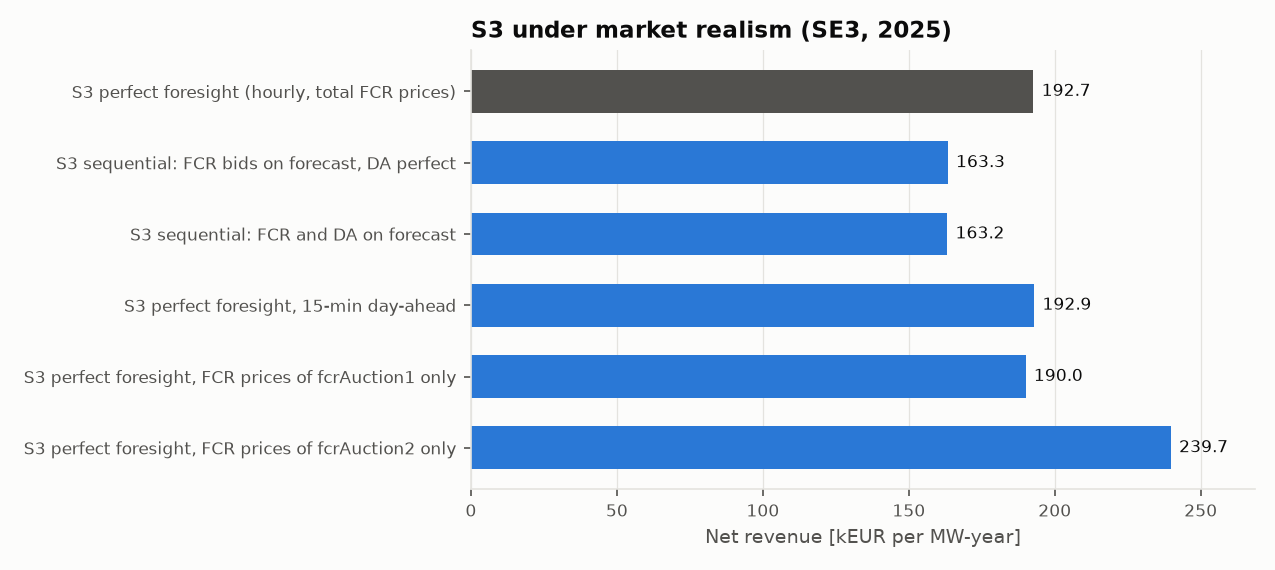
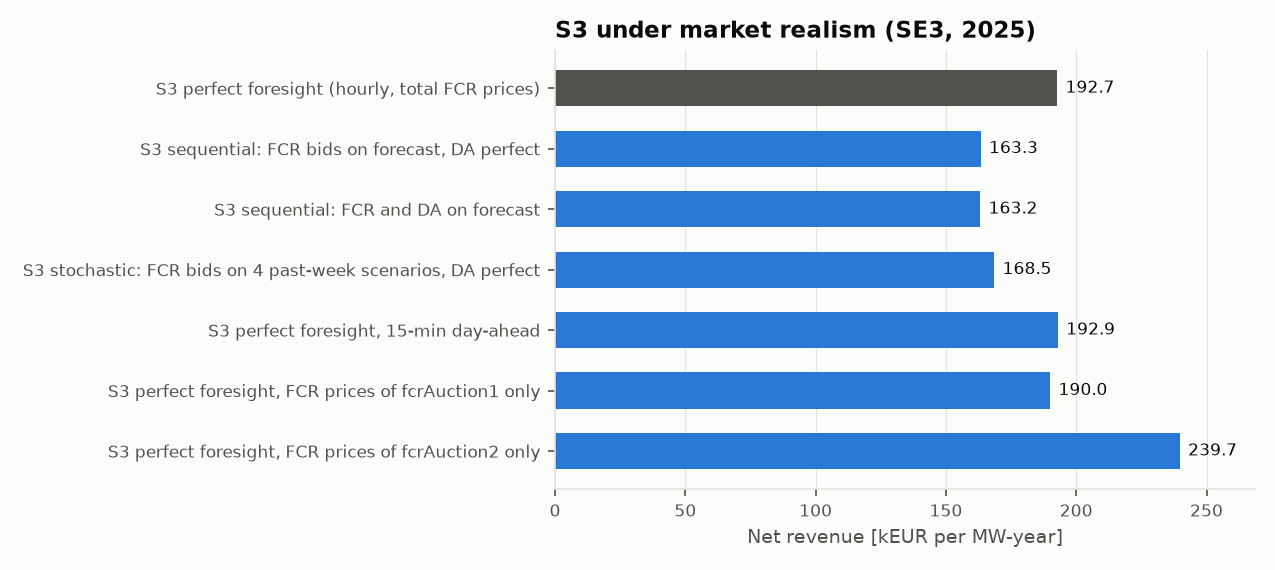
Add stochastic bidding on past weeks

diff --git a/src/nordic_bess/market/stochastic.py b/src/nordic_bess/market/stochastic.py
@@ -1,0 +1,194 @@
+"""Scenario-based two-stage stochastic bidding (PLAN M2b, optional item).
+
+First stage: hourly FCR capacities ``c_N``, ``c_Dup``, ``c_Ddown``, common to all
+scenarios (they are committed in the FCR auctions before prices are known). Second
+stage: a day-ahead schedule per scenario. The objective is the expected revenue over
+equally likely scenarios; each scenario satisfies constraints 1-7 of the daily MILP
+(``nordic_bess.market.milp``). Scenarios are the prices of the same hours in the previous
+``n_weeks`` weeks.
+
+The capacities are then evaluated like the ``fcr_forecast`` sequential variant: fixed,
+with the day-ahead schedule re-optimised on actual prices and settled at actual prices.
+"""
+
+from __future__ import annotations
+
+import time
+
+import numpy as np
+import pandas as pd
+import pyomo.environ as pyo
+from pyomo.contrib.appsi.base import TerminationCondition
+from pyomo.contrib.appsi.solvers import Highs
+
+from nordic_bess.config import SolverConfig
+from nordic_bess.market.inputs import MarketPrices
+from nordic_bess.market.milp import (
+    HOURS_PER_DAY,
+    DailyMilp,
+    DayPrices,
+    MilpParams,
+    constraint_violations,
+)
+from nordic_bess.market.strategies import STRATEGIES, BacktestResult
+
+
+class StochasticDailyMilp:
+    """Two-stage stochastic version of the S3 daily MILP with ``n_scenarios`` scenarios."""
+
+    def __init__(self, params: MilpParams, solver: SolverConfig, n_scenarios: int) -> None:
+        self.params = params
+        self.n_scenarios = int(n_scenarios)
+        self.model = self._build()
+        self.solver = Highs()
+        self.solver.config.mip_gap = solver.mip_rel_gap
+        self.solver.config.time_limit = solver.time_limit_s
+
+    def _build(self) -> pyo.ConcreteModel:
+        p = self.params
+        m = pyo.ConcreteModel(name="stochastic_daily_milp")
+        m.S = pyo.RangeSet(0, self.n_scenarios - 1)
+        m.T = pyo.RangeSet(0, HOURS_PER_DAY - 1)
+        m.K = pyo.RangeSet(0, HOURS_PER_DAY)
+        m.lam = pyo.Param(m.S, m.T, mutable=True, initialize=0.0)
+        m.pi_n = pyo.Param(m.S, m.T, mutable=True, initialize=0.0)
+        m.pi_dup = pyo.Param(m.S, m.T, mutable=True, initialize=0.0)
+        m.pi_ddown = pyo.Param(m.S, m.T, mutable=True, initialize=0.0)
+        cap = (0.0, p.max_per_product_mw)
+        m.c_n = pyo.Var(m.T, bounds=cap)  # first stage
+        m.c_dup = pyo.Var(m.T, bounds=cap)
+        m.c_ddown = pyo.Var(m.T, bounds=cap)
+        m.p_c = pyo.Var(m.S, m.T, bounds=(0.0, p.p_max_mw))  # second stage
+        m.p_d = pyo.Var(m.S, m.T, bounds=(0.0, p.p_max_mw))
+        m.u = pyo.Var(m.S, m.T, domain=pyo.Binary)
+        m.e = pyo.Var(m.S, m.K, bounds=(p.e_min_mwh, p.e_max_mwh))
+
+        m.c1d = pyo.Constraint(m.S, m.T, rule=lambda m, s, t: m.p_d[s, t] <= p.p_max_mw * m.u[s, t])
+        m.c1c = pyo.Constraint(
+            m.S, m.T, rule=lambda m, s, t: m.p_c[s, t] <= p.p_max_mw * (1 - m.u[s, t])
+        )
+        m.c2 = pyo.Constraint(
+            m.S,
+            m.T,
+            rule=lambda m, s, t: (
+                m.e[s, t + 1] == m.e[s, t] + p.eta_c * m.p_c[s, t] - m.p_d[s, t] / p.eta_d
+            ),
+        )
+        m.c3 = pyo.Constraint(
+            m.S,
+            m.T,
+            rule=lambda m, s, t: (
+                (m.p_d[s, t] - m.p_c[s, t])
+                + p.power_factor_n * m.c_n[t]
+                + m.c_dup[t]
+                + p.power_factor_d_opposite * m.c_ddown[t]
+                <= p.p_max_mw
+            ),
+        )
+        m.c4 = pyo.Constraint(
+            m.S,
+            m.T,
+            rule=lambda m, s, t: (
+                (m.p_d[s, t] - m.p_c[s, t])
+                - p.power_factor_n * m.c_n[t]
+                - p.power_factor_d_opposite * m.c_dup[t]
+                - m.c_ddown[t]
+                >= -p.p_max_mw
+            ),
+        )
+        ends = pyo.Set(initialize=[0, 1])
+        m.c5 = pyo.Constraint(
+            m.S,
+            m.T,
+            ends,
+            rule=lambda m, s, t, j: (
+                p.eta_d * (m.e[s, t + j] - p.e_min_mwh)
+                >= p.energy_hours_n * m.c_n[t] + p.energy_hours_d * m.c_dup[t]
+            ),
+        )
+        m.c6 = pyo.Constraint(
+            m.S,
+            m.T,
+            ends,
+            rule=lambda m, s, t, j: (
+                (p.e_max_mwh - m.e[s, t + j]) / p.eta_c
+                >= p.energy_hours_n * m.c_n[t] + p.energy_hours_d * m.c_ddown[t]
+            ),
+        )
+        m.c7a = pyo.Constraint(m.S, rule=lambda m, s: m.e[s, 0] == p.e0_mwh)
+        m.c7b = pyo.Constraint(m.S, rule=lambda m, s: m.e[s, HOURS_PER_DAY] == p.e0_mwh)
+        weight = 1.0 / self.n_scenarios
+        m.obj = pyo.Objective(
+            expr=weight
+            * sum(
+                m.lam[s, t] * (m.p_d[s, t] - m.p_c[s, t])
+                - p.c_deg_eur_per_mwh * m.p_d[s, t]
+                + m.pi_n[s, t] * m.c_n[t]
+                + m.pi_dup[s, t] * m.c_dup[t]
+                + m.pi_ddown[s, t] * m.c_ddown[t]
+                for s in m.S
+                for t in m.T
+            ),
+            sense=pyo.maximize,
+        )
+        return m
+
+    def solve(self, scenarios: list[DayPrices]) -> tuple[np.ndarray, float, float]:
+        """Optimal first-stage capacities ``(24, 3)`` [MW], expected revenue and solve time."""
+        if len(scenarios) != self.n_scenarios:
+            raise ValueError(f"expected {self.n_scenarios} scenarios")
+        m = self.model
+        for s, sc in enumerate(scenarios):
+            for t in m.T:
+                m.lam[s, t].set_value(float(sc.da_eur_per_mwh[t]))
+                m.pi_n[s, t].set_value(float(sc.fcr_n_eur_per_mw_h[t]))
+                m.pi_dup[s, t].set_value(float(sc.fcr_dup_eur_per_mw_h[t]))
+                m.pi_ddown[s, t].set_value(float(sc.fcr_ddown_eur_per_mw_h[t]))
+        t0 = time.perf_counter()
+        res = self.solver.solve(m)
+        elapsed = time.perf_counter() - t0
+        if res.termination_condition != TerminationCondition.optimal:
+            raise RuntimeError(f"stochastic MILP: solver returned {res.termination_condition}")
+        caps = np.array([[pyo.value(v[t]) for v in (m.c_n, m.c_dup, m.c_ddown)] for t in m.T]).clip(
+            min=0.0
+        )
+        return caps, float(pyo.value(m.obj)), elapsed
+
+
+def run_stochastic(
+    actual: MarketPrices,
+    history: MarketPrices,
+    params: MilpParams,
+    solver: SolverConfig,
+    n_weeks: int,
+    tol: float = 1e-6,
+) -> BacktestResult:
+    """Choose FCR capacities on past-week scenarios, then re-optimise the day-ahead
+    schedule on actual prices with the capacities fixed (hourly model only).
+
+    ``history`` must start at least ``n_weeks`` weeks before ``actual``.
+    """
+    if actual.periods_per_hour != 1:
+        raise ValueError("the stochastic model is hourly")
+    if history.fcr.index[0] > actual.fcr.index[0] - pd.Timedelta(weeks=n_weeks):
+        raise ValueError(f"history must cover {n_weeks} weeks before the backtest")
+    stochastic = StochasticDailyMilp(params, solver, n_weeks)
+    second = DailyMilp(params, STRATEGIES["S3"], solver)
+    frames, solve_time, worst = [], 0.0, 0.0
+    for day in actual.days:
+        scenarios = [history.day(day - pd.Timedelta(weeks=w)) for w in range(1, n_weeks + 1)]
+        caps, _, t1 = stochastic.solve(scenarios)
+        sol = second.solve(actual.day(day), fixed_capacity=caps)
+        solve_time += t1 + sol.solve_time_s
+        worst = max(worst, max(constraint_violations(sol.periods, params, sol.dt_h).values()))
+        if worst > tol:
+            raise AssertionError(f"stochastic {day:%Y-%m-%d}: constraint violated by {worst:.3g}")
+        idx = pd.date_range(day, periods=len(sol.periods), freq="1h", name="time_utc")
+        frames.append(sol.periods.set_index(idx))
+    return BacktestResult(
+        strategy=STRATEGIES["S3"],
+        schedule=pd.concat(frames),
+        dt_h=1.0,
+        solve_time_s=solve_time,
+        max_violation=worst,
+    )

diff --git a/tests/test_market_sequential.py b/tests/test_market_sequential.py
@@ -71,3 +71,29 @@ def test_forecast_errors_cost_money_and_fcr_forecast_dominates(config):
     assert a.max_violation <= 1e-6 and b.max_violation <= 1e-6
     # Settled at actual prices: the schedule carries the actual day-ahead prices.
     np.testing.assert_allclose(b.schedule["price_da_eur_per_mwh"], actual.da.to_numpy())
+
+
+def test_single_actual_scenario_matches_deterministic_s3(config):
+    from nordic_bess.market.milp import DailyMilp
+    from nordic_bess.market.stochastic import StochasticDailyMilp
+
+    params = MilpParams.from_config(config)
+    actual, _, _ = _prices(1, weekly_periodic=False, seed=9)
+    day = actual.day(START)
+    det = DailyMilp(params, STRATEGIES["S3"], config.market.solver).solve(day)
+    caps, objective, _ = StochasticDailyMilp(params, config.market.solver, 1).solve([day])
+    assert objective == pytest.approx(det.objective_eur, rel=1e-6)
+    fixed = DailyMilp(params, STRATEGIES["S3"], config.market.solver).solve(day, caps)
+    assert fixed.objective_eur == pytest.approx(det.objective_eur, rel=1e-6)
+
+
+def test_stochastic_with_weekly_pattern_equals_perfect_foresight(config):
+    from nordic_bess.market.stochastic import run_stochastic
+
+    params = MilpParams.from_config(config)
+    actual, extended, _ = _prices(2, weekly_periodic=True)
+    pf = summarise(run_backtest(actual, params, STRATEGIES["S3"], config.market.solver), params)
+    sto = run_stochastic(actual, extended, params, config.market.solver, n_weeks=1)
+    assert summarise(sto, params)["net_eur"] == pytest.approx(pf["net_eur"], rel=1e-6)
+    with pytest.raises(ValueError):
+        run_stochastic(actual, extended, params, config.market.solver, n_weeks=2)

diff --git a/scripts/run_m2b.py b/scripts/run_m2b.py
@@ -22,6 +22,7 @@ from nordic_bess.market import kpis
 from nordic_bess.market.inputs import load_backtest_prices
 from nordic_bess.market.milp import MilpParams
 from nordic_bess.market.sequential import FORECAST_LAG, naive_forecast, run_sequential
+from nordic_bess.market.stochastic import run_stochastic
 from nordic_bess.market.strategies import STRATEGIES, run_backtest
 from nordic_bess.reporting.style import BLUE, DPI, INK, INK_SECONDARY, new_figure
 
@@ -97,6 +98,13 @@ def main() -> None:
         run_sequential(hourly, forecast, params, solver, "all_forecast"),
     )
 
+    n = cfg.market.scenario_weeks
+    history = load_backtest_prices(cfg, start=s - pd.Timedelta(weeks=n))
+    add(
+        f"S3 stochastic: FCR bids on {n} past-week scenarios, DA perfect",
+        run_stochastic(hourly, history, params, solver, n),
+    )
+
     quarter = load_backtest_prices(cfg, periods_per_hour=4)
     add("S3 perfect foresight, 15-min day-ahead", run_backtest(quarter, params, s3, solver))
     for series in ("fcrAuction1", "fcrAuction2"):
@@ -110,7 +118,7 @@ def main() -> None:
     summary = pd.DataFrame(rows)
     ref = summary.loc[summary["case"] == REFERENCE, "eur_per_mw_year"].iloc[0]
     summary["delta_vs_reference_eur_per_mw_year"] = summary["eur_per_mw_year"] - ref
-    is_forecast = summary["case"].str.contains("forecast")
+    is_forecast = summary["case"].str.contains("forecast|stochastic")
     summary["vpi_eur_per_mw_year"] = np.where(is_forecast, ref - summary["eur_per_mw_year"], np.nan)
     cfg.paths.results.mkdir(parents=True, exist_ok=True)
     summary.round(2).to_csv(cfg.paths.results / "m2b_summary.csv", index=False)

diff --git a/src/nordic_bess/config.py b/src/nordic_bess/config.py
@@ -55,6 +55,7 @@ class MarketConfig:
     products: tuple[str, ...]
     fcr_price_series: str
     lookback_days: int
+    scenario_weeks: int
     solver: SolverConfig
 
     def __post_init__(self) -> None:
@@ -62,6 +63,8 @@ class MarketConfig:
             raise ConfigError("market.fcr_price_series must be total, fcrAuction1 or fcrAuction2")
         if self.lookback_days < 0:
             raise ConfigError("market.lookback_days must be >= 0")
+        if not 1 <= self.scenario_weeks <= self.lookback_days // 7:
+            raise ConfigError("market.scenario_weeks must be in [1, lookback_days // 7]")
         if self.backtest_end <= self.backtest_start:
             raise ConfigError("market.backtest_end must be after backtest_start")
         if self.resolution_minutes not in (15, 60):
@@ -290,6 +293,7 @@ def config_from_dict(raw: dict[str, Any], root: Path, source: Path | None = None
         products=tuple(m["products"]),
         fcr_price_series=str(m["fcr_price_series"]),
         lookback_days=int(m["lookback_days"]),
+        scenario_weeks=int(m["scenario_weeks"]),
         solver=SolverConfig(
             name=str(m["solver"]["name"]),
             mip_rel_gap=float(m["solver"]["mip_rel_gap"]),

diff --git a/README.md b/README.md
@@ -91,6 +91,7 @@ is binding in about 94 % of the hours; the energy reservation in about a quarter
 | S3 perfect foresight (hourly, total FCR prices) | 192.7 | reference | 148 |
 | S3 sequential: FCR bids on forecast, DA perfect | 163.3 | -29.4 | 140 |
 | S3 sequential: FCR and DA on forecast | 163.2 | -29.5 | 145 |
+| S3 stochastic: FCR bids on 4 past-week scenarios, DA perfect | 168.5 | -24.1 | 92 |
 | S3 perfect foresight, 15-min day-ahead | 192.9 | +0.3 | 151 |
 | S3 perfect foresight, FCR prices of fcrAuction1 only | 190.0 | -2.7 | 129 |
 | S3 perfect foresight, FCR prices of fcrAuction2 only | 239.7 | +47.1 | 257 |
@@ -98,7 +99,9 @@ is binding in about 94 % of the hours; the energy reservation in about a quarter
 
 Deciding FCR bids on a naive "same hour last week" forecast costs about 15 % of the
 perfect-foresight revenue; almost all of that loss comes from the FCR decision, because
-little headroom is left for arbitrage once capacity is sold. 15-minute day-ahead prices
+little headroom is left for arbitrage once capacity is sold. A two-stage stochastic
+model that bids on the past four weeks as scenarios recovers about a fifth of that loss
+with far fewer cycles. 15-minute day-ahead prices
 (from October 2025) add almost nothing to an FCR-led strategy. Using only the thin
 second auction round would overstate revenue through its price spikes, which is why the
 volume-weighted series is the reference.

diff --git a/docs/DATA.md b/docs/DATA.md
@@ -14,7 +14,8 @@ from scratch; raw downloads are cached in `data/raw/` (gitignored) and refreshed
 ## Day-ahead prices (ENTSO-E)
 
 - Query: `EntsoePandasClient.query_day_ahead_prices("SE_3", start, end)` for
-  `[backtest_start - lookback_days, backtest_end)` = 2024-12-18 to 2026-01-01 UTC.
+  `[backtest_start - lookback_days, backtest_end)` = 2024-12-04 to 2026-01-01 UTC (28 days of
+  history for the M2b forecasts and scenarios).
 - The response is in Europe/Stockholm local time and **includes the end timestamp**
   (97 rows for one 15-minute day). The loader converts to UTC and keeps `[start, end)`.
 - Market time unit: hourly until delivery day 2025-09-30, 15 minutes from delivery day
